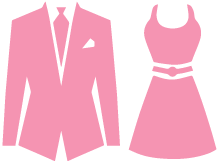
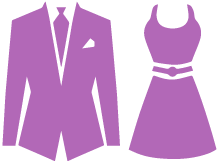
primeras modificaciones Jude

diff --git a/jude.html b/jude.html
@@ -34,9 +34,9 @@
       <section class="banner">
         <div class="textoBanner">
           <h1>Jude</h1>
-          <h2>Mis 16</h2>
+          <h2>mis dulces 16 1/2</h2>
         </div>
-        <p>FALTAN</p>
+        <p>Faltan</p>
           <div id="reloj">
           </div>
       </section>
@@ -46,19 +46,20 @@
       <section class="info">
           <!-- Donde y cuando -->
         <article class="dondeCuando">
+          <h3>Dónde y cuándo</h3>
           <h4>FIESTA</h4>
           <img src="./img/galeriaJude/salonJude.webp" alt="Salón colony eventos" />
-          <h4 class="nombreSalon">SALÓN COLONY EVENTOS</h4>
+          <h4 class="nombreSalon">SALÓN </h4>
           <h5>¡Te esperamos!</h5>
           <div class="textoFechaLugar">
-            <p class="cuando"><span>Cuándo:</span> 19/06/2022 - 21:30 Hs</p>
+            <p class="cuando"><span>Cuándo:</span> 15/04/2022 - 21:00 Hs</p>
           <p class="direccion">
             <span>Dirección:</span>Cnel. Ramón L. Falcón 2935 - CABA
           </p>
           </div>
   
             <a href="https://goo.gl/maps/K9NBnEVjuE3wp1Ht6" target="_blank" class="btnMapa">Abrir mapa</a>
-          <a href="https://www.google.com/calendar/render?action=TEMPLATE&text=FIESTA+CUMPLEAÑOS+Jude&dates=20220219T213000/20220220T060000&details=Fiesta+de+cumpleaños+de+Jude+en+el+salón+Colony&location=Cnel.+Ramón+L.+Falcón+2935+-+CABA&sf=true&output=xml" target="_blank" class="btnFecha">Agendar fecha</a>
+          <a href="https://www.google.com/calendar/render?action=TEMPLATE&text=FIESTA+CUMPLEAÑOS+Jude&dates=20220415T210000/20220416T060000&details=Fiesta+de+cumpleaños+de+Jude+en+el+salón+Colony&location=Cnel.+Ramón+L.+Falcón+2935+-+CABA&sf=true&output=xml" target="_blank" class="btnFecha">Agendar fecha</a>
 
           <iframe id="mapa" src="https://www.google.com/maps/embed?pb=!1m18!1m12!1m3!1d3282.889481157742!2d-58.47190588476963!3d-34.63223308045213!2m3!1f0!2f0!3f0!3m2!1i1024!2i768!4f13.1!3m3!1m2!1s0x95bcc98f5ae5e6eb%3A0xce0eb785fcd8edc8!2sColony%20Eventos!5e0!3m2!1ses!2sar!4v1648581990006!5m2!1ses!2sar" width="600" height="450" style="border:0;" allowfullscreen="" loading="lazy" referrerpolicy="no-referrer-when-downgrade"></iframe>
           
@@ -74,6 +75,20 @@
         <!-- Fin vestimenta -->
 
         <!-- Regalos -->
+        <article class="regalos">
+      <!-- <ul>
+        <li><i class="fas fa-gift"></i>Ropa</li>
+        <li><i class="fas fa-gift"></i>Libros</li>
+        <li><i class="fas fa-gift"></i>Heladera</li>
+      </ul> -->
+      <button class="btnDatosBancarios oculto"><i class="fas fa-gift"></i>Datos bancarios</button>
+      <div class="contDatosBancarios oculto">
+        <p><span>Banco:</span> Brubank</p>
+        <p><span>CBU:</span> 14300017 - 13005065410014</p>
+        <p><span>Alias:</span> Abuela.Billie</p>
+        <p><span>CUIL:</span> 27-40910482-2</p>
+      </div>
+      </article>
         
         <!-- Fin regalos -->
 

diff --git a/css/jude.css b/css/jude.css
@@ -1,64 +1,73 @@
-@import url('https://fonts.googleapis.com/css2?family=Tangerine&display=swap');
+@import url("https://fonts.googleapis.com/css2?family=Montserrat&display=swap");
+@font-face {
+    font-family: 'allegro';
+    src:url('../fonts/allegro-regular.woff');
+    font-weight: normal;
+    font-style: normal;
+}
 
-h3{
-    font-family: 'Tangerine', cursive;
-    font-size: 3rem;
-    color: #f594b2;
-}
-h4, h5, span{
-    color: #f594b2;   
-}
-.navMenu{
-    background-color: #ffbed3;
-}
-.navBar{
-    color: #e04979; 
-}
-.btnAudio{
-    background-color: #e04979; 
-}
-.textoBanner h1, h2{
-    text-shadow: none;
-    color: #e04979;
+.separadorInicio, .separadorFin{
+    background-image: url("../img/galeriaJude/ornamentaJude.png");
 }
 .textoBanner h1{
-    font-family: 'Tangerine', cursive;
-    font-size: 9rem;
-    margin-left: -3rem;
-    color: #e04979; 
-}
+ 
+    font-family: allegro;
+    font-size: 8rem;
+    margin-top: 13rem;
+    margin-left: -4rem;
+} 
 .textoBanner h2{
-    font-family: 'Montserrat', sans-serif;
-    font-size: 1.5rem;
+    font-family: allegro;
+    font-size: 3rem;
+}
+h3{
+    color: #b268b7;
+    font-family: allegro;
+    font-size: 2.7rem;
+}
+.dondeCuando h5{
+    font-family: allegro;
+    font-size: 3rem;
+}
+.dondeCuando span{
+    font-family: allegro;
+    font-size: 1.8rem;
 }
 
+#reloj span{
+ color: white;
+}
+.dondeCuando h4, .dondeCuando h5{
+    text-transform: none;
+  }
+h5, span{
+    color: #b268b7;
+}
+h5{
+    margin-left: -0.8rem;
+}
+.navBar{
+    color: #b268b7;
+}
+.navMenu{
+    background-color: #b268b7;
+}
+.btnAudio{
+    background-color: #b268b7;
+}
 .banner {
-    background-image: url("../img/galeriaJude/portadaJude.png");
-    background-size: auto;
-
+height: 35rem;
+background-image: url("../img/galeriaJude/2.webp");
+  background-size: cover;
   }
-  .banner p{
-      color:#f594b2;
-      text-shadow: none;
-  }
-  .separadorInicio{
-    background-image: url("../img/galeriaJude/ornamentaJude.png");
-    height: 12rem;
-    width: 23rem;
-} 
-.separadorFin{
-    background-image: url("../img/galeriaJude/ornamentaJude.png");
-    height: 12rem;
-    width: 23rem;
-} 
  .btnWhatsapp{
      border: none;
  } 
-  @media screen and (min-width: 768px) {
-      .banner{
-          height: 30rem;
-      }
-    .dondeCuando img {
-        height: 20rem;
+ @media screen and (min-width: 768px) {
+    .banner {
+        background-image: url("../img/galeriaJude/backgroundImagen.webp"); ;
+        height: 50rem;
+        width: 50rem;
+        background-size: cover;
       } 
   }

diff --git a/scripts/sliderJude.js b/scripts/sliderJude.js
@@ -55,7 +55,7 @@ window.addEventListener("load", function () {
       }, 1000);
     };
   
-    countdown("May 23 2022 21:30:00 GMT-0300", "reloj", "0 días restantes");
+    countdown("Apr 15 2022 21:00:00 GMT-0300", "reloj", "0 días restantes");
     ////////////////////////////////////////////////////
   
     ///////////////// CONFIRMACION WSP /////////////////
